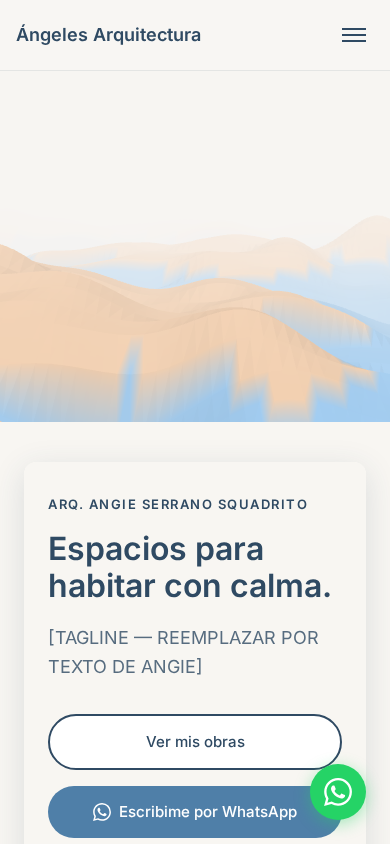
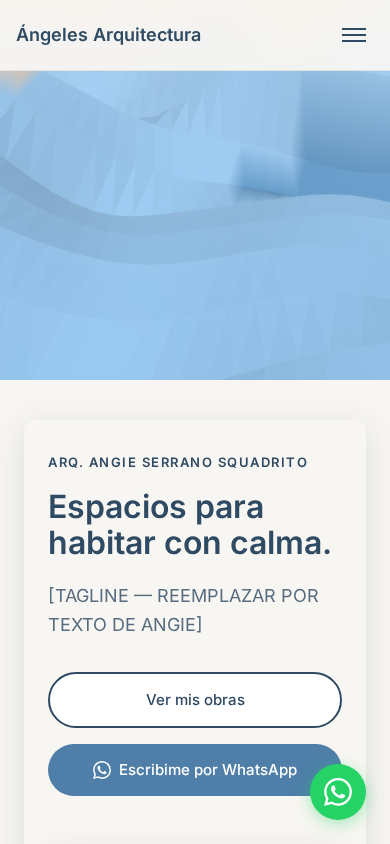
Use CSS crop to show terrain on mobile, eliminate empty band
Mobile-only changes:
- Art block: 45vh height with overflow:hidden
- Canvas: rendered at 80vh, positioned with top:-35vh to crop empty upper portion
- Result: terrain fills block from top, blue valleys occupy ~50% of visible area
- Added test: top 20 rows must have terrain (not flat background), 70% threshold
- Text panel remains cleanly below art block

Desktop: unchanged ✓
Tests: all passing including new top-rows terrain verification ✓

diff --git a/test-hero-canvas.spec.js b/test-hero-canvas.spec.js
@@ -123,21 +123,69 @@ test.describe('Hero Canvas Rendering', () => {
     
     expect(hasRendered).toBe(true);
     
-    // Check art is visible on mobile (height >= 45vh)
+    // Check art is visible on mobile (height >= 40vh)
     const artHeight = await page.evaluate(() => {
-      const canvas = document.querySelector('canvas');
-      return canvas ? canvas.getBoundingClientRect().height : 0;
+      const stage = document.querySelector('.hero-canvas-stage');
+      return stage ? stage.getBoundingClientRect().height : 0;
     });
     
-    expect(artHeight).toBeGreaterThanOrEqual(844 * 0.45);
+    expect(artHeight).toBeGreaterThanOrEqual(844 * 0.40);
     
-    // Verify blue-dominant pixels on mobile too
+    // Verify top 20 rows of visible art block aren't flat background color
+    const topRowsHaveVariation = await page.evaluate(() => {
+      const canvas = document.querySelector('canvas');
+      const stage = document.querySelector('.hero-canvas-stage');
+      if (!canvas || !stage) return false;
+      
+      const gl = canvas.getContext('webgl2') || canvas.getContext('webgl') || canvas.getContext('experimental-webgl');
+      if (!gl) return false;
+      
+      const width = gl.drawingBufferWidth;
+      const height = gl.drawingBufferHeight;
+      const pixels = new Uint8Array(width * height * 4);
+      gl.readPixels(0, 0, width, height, gl.RGBA, gl.UNSIGNED_BYTE, pixels);
+      
+      // Sample top 20 rows (accounting for canvas offset)
+      // Canvas is positioned with top: -35vh, so we sample from further down
+      const stageRect = stage.getBoundingClientRect();
+      const canvasRect = canvas.getBoundingClientRect();
+      const offsetY = Math.abs(canvasRect.top - stageRect.top);
+      const scaleFactor = height / canvasRect.height;
+      const startRow = Math.floor(offsetY * scaleFactor);
+      
+      const bgColor = { r: 247, g: 246, b: 242 }; // Light beige background
+      const bgThreshold = 15; // Allow some variation
+      let nonBgPixels = 0;
+      const samplesToCheck = 200;
+      
+      for (let i = 0; i < samplesToCheck; i++) {
+        const row = startRow + Math.floor(Math.random() * 20);
+        const col = Math.floor(Math.random() * width);
+        const idx = (row * width + col) * 4;
+        const r = pixels[idx];
+        const g = pixels[idx + 1];
+        const b = pixels[idx + 2];
+        
+        // Check if pixel is NOT the flat background color
+        if (Math.abs(r - bgColor.r) > bgThreshold ||
+            Math.abs(g - bgColor.g) > bgThreshold ||
+            Math.abs(b - bgColor.b) > bgThreshold) {
+          nonBgPixels++;
+        }
+      }
+      
+      // At least 70% of top samples should be non-background (terrain)
+      return nonBgPixels >= samplesToCheck * 0.7;
+    });
+    
+    expect(topRowsHaveVariation).toBe(true);
+    
+    // Verify blue-dominant pixels exist
     const pixelAnalysis = await page.evaluate(() => {
       const canvas = document.querySelector('canvas');
       const gl = canvas.getContext('webgl2') || canvas.getContext('webgl') || canvas.getContext('experimental-webgl');
       if (!gl) return { hasBlue: false, blueCount: 0, totalSamples: 0 };
       
-      // Read WebGL pixels directly
       const width = gl.drawingBufferWidth;
       const height = gl.drawingBufferHeight;
       const pixels = new Uint8Array(width * height * 4);

diff --git a/index.html b/index.html
@@ -62,7 +62,7 @@
             max-width: 100%;
         }
         
-        /* Mobile: art in full-width block (~50vh) above text, no overlap */
+        /* Mobile: art in full-width block (~45vh) above text, crop canvas to show terrain */
         @media (max-width: 768px) {
             .hero { 
                 min-height: 100vh;
@@ -74,10 +74,18 @@
             
             .hero-canvas-stage {
                 position: relative;
-                height: 50vh;
+                height: 45vh;
                 width: 100%;
                 display: block;
                 overflow: hidden;
+            }
+            
+            .hero-canvas-stage canvas {
+                position: absolute;
+                top: -35vh;
+                left: 0;
+                width: 100% !important;
+                height: 80vh !important;
             }
             
             .hero .container {
